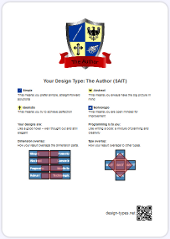
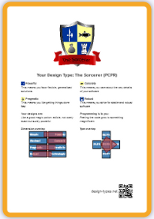
put print certificate more prominently inside the page; added orange border surround certificate;

diff --git a/result.html b/result.html
@@ -116,7 +116,7 @@
     </section>
     <section class="typediagnostic">
         <a id="diagnostic"></a>
-        <h1>Diagnostic</h1>
+        <h1 title="check Dia">Diagnostic</h1>
         <div class="row">
             <div class="col-sm-6">
                 <p>This is how your answers map to the four dimensions. You can see that they are a continuum rather than just two extremes (click on the dimension parts to learn more about it):</p>
@@ -141,24 +141,28 @@
         </div>
     </section>  
     <section>
+        <h1>Print it!</h1>
+        <div class="row">
+            <div class="col-sm-12 text-center">
+                <p>Print out your result and put it on the office wall or on your door</p>
+                <a href="" class="certificate-link">
+                    <img src="img/certificate.png" alt="" title="print it">
+                </a>
+            </div>
+        </div>
+    </section>     
+    <section>
         <h1>What's Next</h1>
         <div class="row">
-            <div class="col-sm-10">
+            <div class="col-sm-12">
                 <ul>
-                    <li><a class="certificate-link" href="">Print out your result</a> and put it on the office wall or on your door</li>
                     <li><a href="test_yourself.html?revealed">Play around</a> with the questionnaire and see how your choices change the result</li>
                     <li>Find out how your <a href="assess_colleagues.html?revealed">colleagues</a> design software</li>
                     <li>Explore the other <a href="types.html">design types</a></li>
                     <li>Learn more about the four <a href="dimensions.html">dimensions</a>: simple-vs-powerful, abstract-vs-concrete, pragmatic-vs-idealistic, and technologic-vs-robust</li>
                     <li>Read more about the whole <a href="about.html">idea</a></li>
-                    <li>Have a look on our <a href="statistics.html">statistics</a></li>
                     <li>Please give us <a href="mailto:email@design-types.net">feedback</a> on design types, the questionnaire and your result</li>
                 </ul>
-            </div>
-            <div class="col-sm-2">
-                <a href="" class="certificate-link">
-                    <img src="img/certificate.png" alt="" title="print it">
-                </a>
             </div>
         </div>
     </section>
@@ -205,5 +209,6 @@
 <script src="charts.js"></script>
 <script src="result.js"></script>
 <script src="comments.js"></script>
+
 </body>
 </html>

diff --git a/types.js b/types.js
@@ -111,7 +111,7 @@ function Type(value1, value2, value3, value4) {
     }
     
     function attribute(value) {
-        return '<a class="dont-print-url" href="dimensions.html?dimension=' + value + '">' + value.capitalize() + '</a> ';
+        return '<a class="dont-print-url" id="tt_' + value + '" href="dimensions.html?dimension=' + value + '">' + value.capitalize() + '</a> ';
     }
     
     function arrayToUl(array) {

diff --git a/style.css b/style.css
@@ -244,6 +244,8 @@ footer {
   -webkit-border-radius: 40px;
   -moz-border-radius: 40px;
   border-radius: 40px;
+  border: 25px solid #F6A828 !important;
+  box-shadow: 0px 0px 25px #888888 !important;
 }
 
 #coat-of-arms {

diff --git a/result.js b/result.js
@@ -29,5 +29,6 @@ $(document).ready(function(){
     }
     
     drawTypesBarChart(resultType);
+
 });
 
